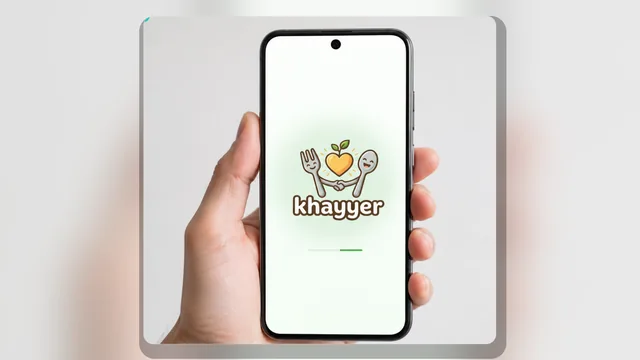
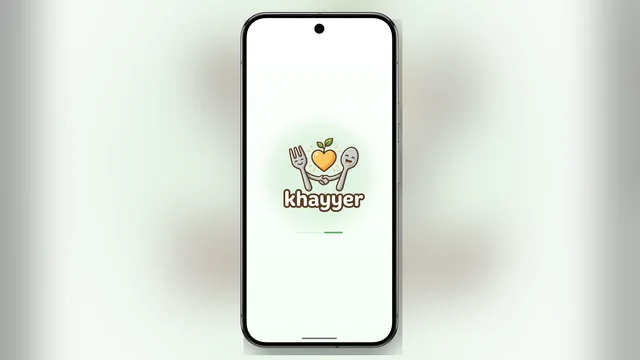
fix: improve Khayyer project thumbnail

diff --git a/src/styles/global.css b/src/styles/global.css
@@ -1331,19 +1331,6 @@ html[data-theme='light'] .button:not(.button-secondary):not(.button-ghost) {
 
   .project-card-lead {
     grid-column: 1 / -1;
-    display: grid;
-    grid-template-columns: minmax(0, 1.15fr) minmax(22rem, 0.85fr);
-  }
-
-  .project-card-lead .project-card-media {
-    min-height: 100%;
-    aspect-ratio: auto;
-  }
-
-  .project-card-lead .project-card-media picture,
-  .project-card-lead .project-card-media img {
-    position: absolute;
-    inset: 0;
   }
 
   .project-card-lead .project-card-body {
@@ -1369,6 +1356,22 @@ html[data-theme='light'] .button:not(.button-secondary):not(.button-ghost) {
 }
 
 @media (min-width: 900px) {
+  .project-card-lead {
+    display: grid;
+    grid-template-columns: minmax(0, 1.15fr) minmax(22rem, 0.85fr);
+  }
+
+  .project-card-lead .project-card-media {
+    min-height: 100%;
+    aspect-ratio: auto;
+  }
+
+  .project-card-lead .project-card-media picture,
+  .project-card-lead .project-card-media img {
+    position: absolute;
+    inset: 0;
+  }
+
   .desktop-nav {
     display: flex;
   }

diff --git a/src/data/projects.ts b/src/data/projects.ts
@@ -76,7 +76,7 @@ export const projects: Project[] = [
       srcSet: `${projectAsset('khayyer', 'thumbnail-640.webp')} 640w, ${projectAsset('khayyer', 'thumbnail.webp')} 1200w`,
       width: 1200,
       height: 675,
-      alt: 'Khayyer logo and loading screen displayed on a handheld mobile phone.',
+      alt: 'Khayyer logo and loading screen displayed in a mobile phone frame.',
     },
     gallery: [
       {

diff --git a/scripts/process_media.py b/scripts/process_media.py
@@ -198,11 +198,34 @@ def fit_contain(source: Image.Image, max_size: tuple[int, int]) -> Image.Image:
 def supplied_thumbnail(project: ProjectMedia) -> Image.Image:
     """Place a supplied portrait/square cover intact on a derived 16:9 backdrop."""
     with Image.open(ROOT / project.thumbnail_source) as opened:
-        source = ImageOps.exif_transpose(opened).convert("RGB")
+        source_rgba = ImageOps.exif_transpose(opened).convert("RGBA")
+
+    flattened = Image.new("RGBA", source_rgba.size, (*project.thumbnail_backdrop, 255))
+    flattened.alpha_composite(source_rgba)
+    source = flattened.convert("RGB")
     backdrop = ImageOps.fit(source, (1600, 900), method=Image.Resampling.LANCZOS)
     backdrop = backdrop.filter(ImageFilter.GaussianBlur(radius=54))
     tint = Image.new("RGB", backdrop.size, project.thumbnail_backdrop)
     canvas = Image.blend(backdrop, tint, project.thumbnail_tint_strength)
+
+    has_transparency = source_rgba.getchannel("A").getextrema()[0] < 255
+    if has_transparency:
+        foreground = source_rgba.copy()
+        foreground.thumbnail((1240, 840), Image.Resampling.LANCZOS)
+        x = (canvas.width - foreground.width) // 2
+        y = (canvas.height - foreground.height) // 2
+
+        alpha = foreground.getchannel("A")
+        shadow_alpha = alpha.filter(ImageFilter.GaussianBlur(radius=20)).point(
+            lambda value: round(value * 0.34)
+        )
+        shadow = Image.new("RGBA", foreground.size, (0, 0, 0, 0))
+        shadow.putalpha(shadow_alpha)
+
+        composed = canvas.convert("RGBA")
+        composed.alpha_composite(shadow, (x + 8, y + 18))
+        composed.alpha_composite(foreground, (x, y))
+        return composed.convert("RGB")
 
     foreground = fit_contain(source, (1240, 820))
     x = (canvas.width - foreground.width) // 2
